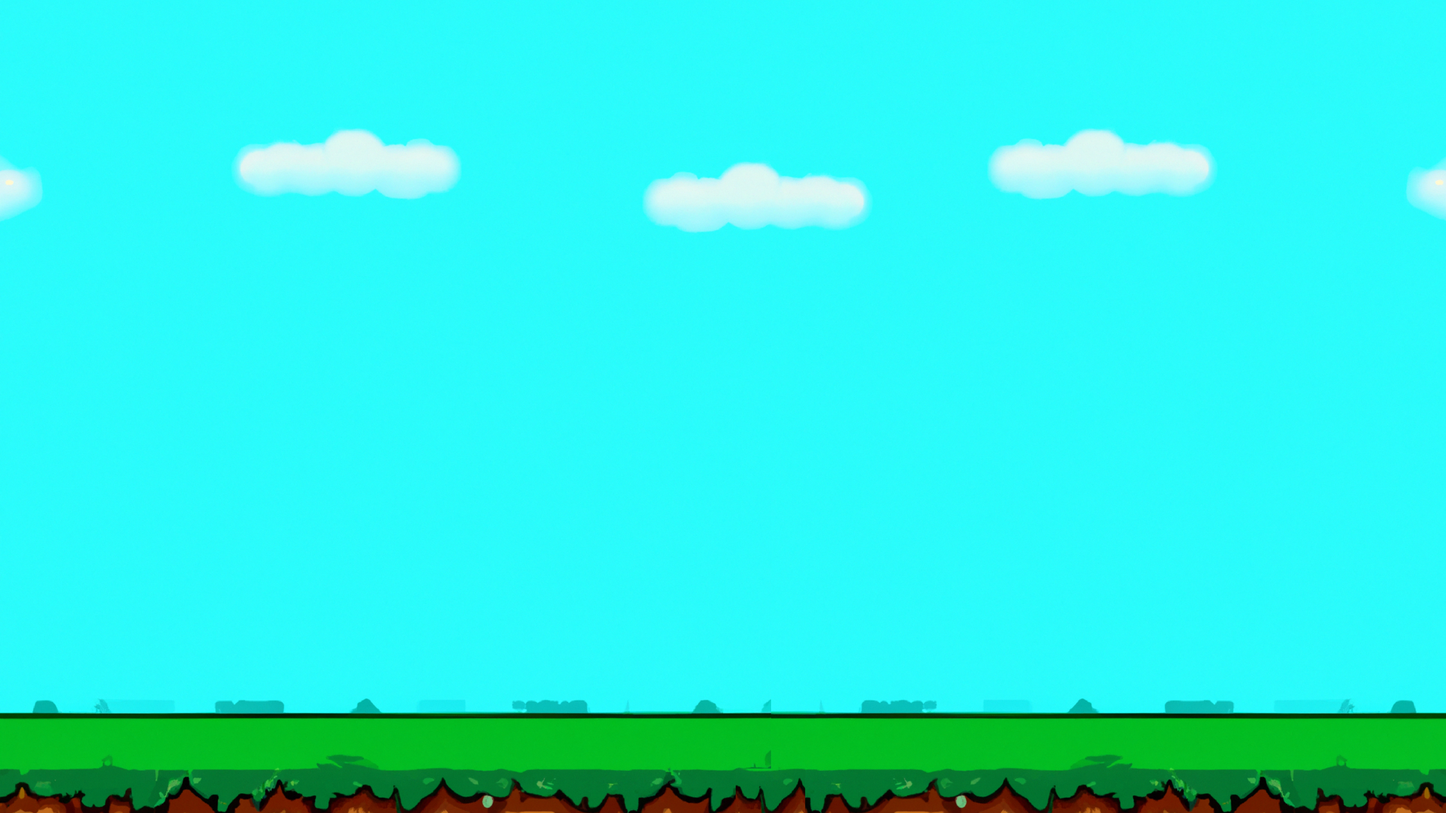
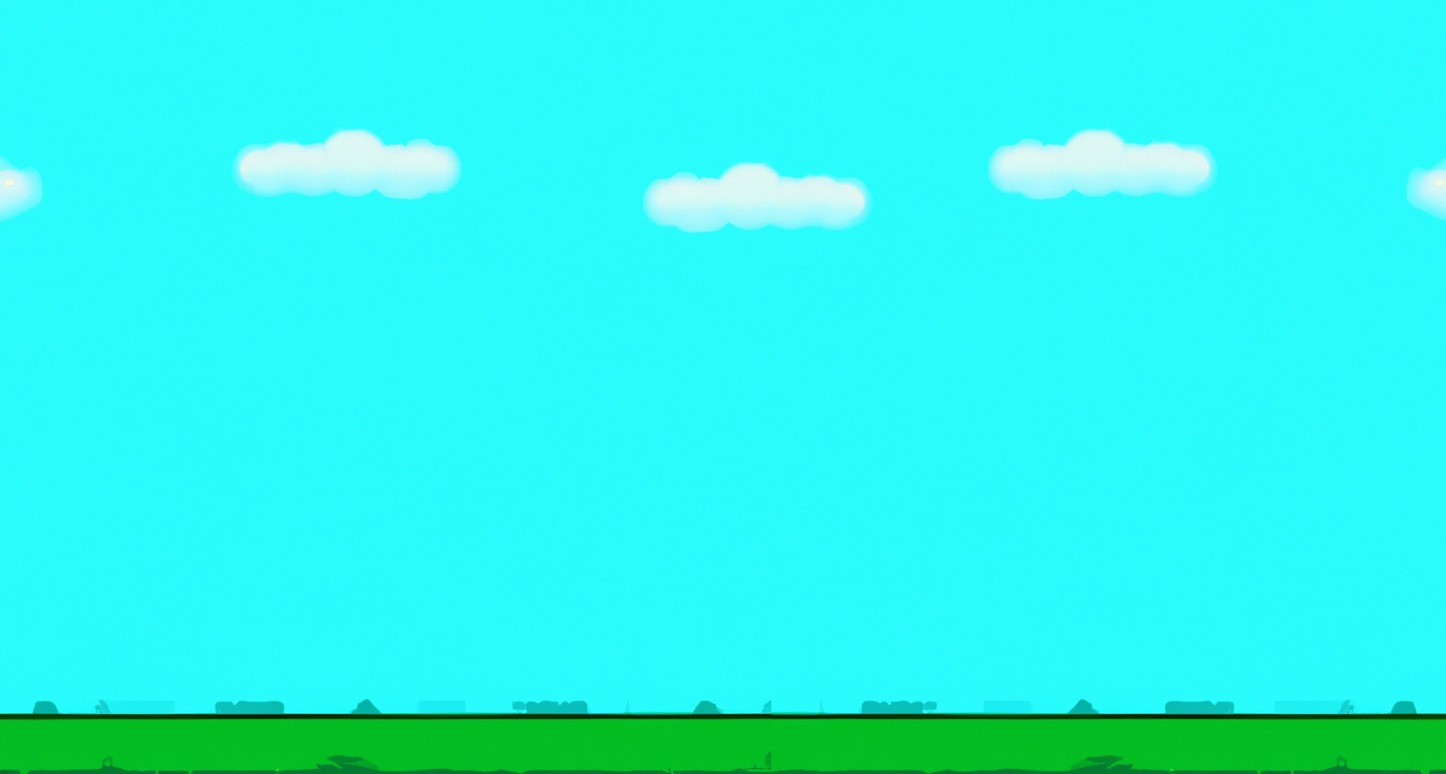
some changes in field

diff --git a/src/client/helpers/PositionConverter.cpp b/src/client/helpers/PositionConverter.cpp
@@ -11,15 +11,25 @@ int PositionConverter::convert_CM_to_PX_In_X_axis(int pos, SDL2pp::Renderer &ren
     if (pos == 0)
         return 0;
     double f = (double)matchSetup.get_field_length()/(double)renderer.GetOutputWidth();
-    return (int)((double)pos/f);
+    int finalPos = (int)((double)pos/f);
+    int carWidth = get_car_width_in_PX(renderer);
+
+    if (finalPos + carWidth > renderer.GetOutputWidth()) // Limit
+        return renderer.GetOutputWidth()-carWidth;
+    return finalPos;
 }
 
 int PositionConverter::convert_CM_to_PX_In_Y_axis(int pos, SDL2pp::Renderer &renderer) {
     int inverseSize = matchSetup.get_field_height() - pos; // Because pos = 0 is the ground in server but is the top in SDL
     if (inverseSize == 0)
         return 0;
-    double f = (double)matchSetup.get_field_height()/(double)renderer.GetOutputHeight(); // 20000 => matchSetup.field_height
-    return (int)((double)inverseSize/f) - 100; // 100 is the ground
+    double f = (double)matchSetup.get_field_height()/(double)renderer.GetOutputHeight();
+    int finalPos = (int)((double)inverseSize/f); // is the ground
+    int carHeight = get_car_height_in_PX(renderer);
+
+    if (finalPos + carHeight > renderer.GetOutputHeight()) // Limit
+        return renderer.GetOutputHeight() - carHeight;
+    return finalPos;
 }
 
 int PositionConverter::get_car_width_in_PX(SDL2pp::Renderer &renderer) {

diff --git a/src/client/presentation/ClientCar.cpp b/src/client/presentation/ClientCar.cpp
@@ -27,24 +27,13 @@ void ClientCar::render(SDL2pp::Renderer &renderer, PositionConverter &positionCo
     );
 }
 
-// TODO: logic with setup sizes
 int ClientCar::calculatePositionInXWithBorder(SDL2pp::Renderer &renderer, PositionConverter &positionConverter) {
-    int cmPos = state.get_position_x();
-    int pos = positionConverter.convert_CM_to_PX_In_X_axis(cmPos, renderer);
-    int carWidth = calculateCarWidthInPx(renderer, positionConverter);
-
-    if (pos + carWidth/2 > renderer.GetOutputWidth())
-        return renderer.GetOutputWidth()-carWidth;
-    return pos;
+    return positionConverter.convert_CM_to_PX_In_X_axis(state.get_position_x(), renderer);
 }
 
 int ClientCar::calculatePositionInYWithBorder(SDL2pp::Renderer &renderer, PositionConverter &positionConverter) {
     int cmPos = state.get_position_y();
     int posPx = positionConverter.convert_CM_to_PX_In_Y_axis(cmPos, renderer);
-    int carHeight = calculateCarHeightInPx(renderer, positionConverter);
-
-    if (posPx + carHeight > renderer.GetOutputHeight())
-        return renderer.GetOutputHeight() - carHeight;
     return posPx;
 }
 

diff --git a/src/client/helpers/MockProvider.cpp b/src/client/helpers/MockProvider.cpp
@@ -7,7 +7,7 @@
 MockProvider::MockProvider()
 : initialMatchState(120, 1, 0, 0, 2, 0, 0, 20000, 0
              , std::vector<CarState>(initialCars))
-             , matchSetup(40000,20000,10000,5000,2500,2){}
+             , matchSetup(40000,20000,10000,2500,2500,2){}
 
 const MatchState &MockProvider::getInitialMatchState() const {
     return initialMatchState;
